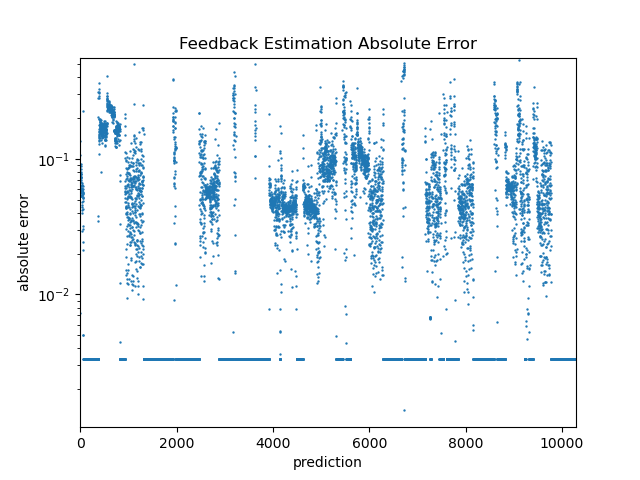
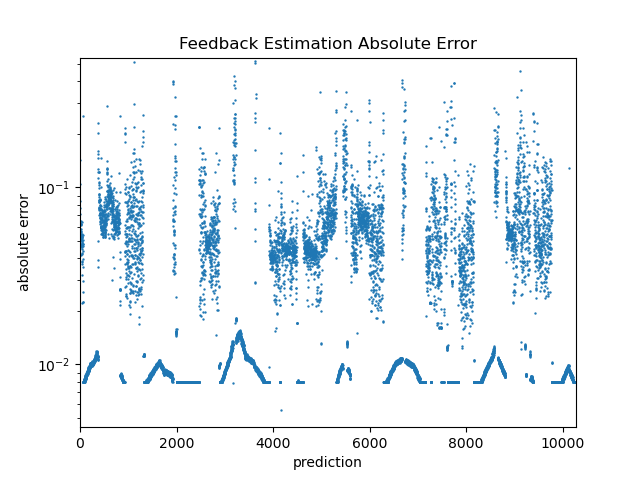
Did some playing around with network size, ultimately found that a center layer of 12 nodes works the best after training for 100 epocs. With that configuration, the already promising data looks even better. Now the network looks much closer to Pioneer era at single estimation (thought notably still

diff --git a/NeuralNetwork/main.py b/NeuralNetwork/main.py
@@ -53,22 +53,17 @@ print(outputTrainData.__len__())
 print(inputTestData.__len__())
 print(outputTestData.__len__())
 print(inputFeedbackTestData.__len__())
-print(outputFeedbackTestData.__len__())
-
-''' Best Configurations:
-    Dense 7, Dense 3, Epochs 200, Batch size 5: loss 0.0077, accuracy 0.987, mean absolute error 0.0299, 750us/step 
-    Dense 8, Dense 3, Epochs 200, Batch size 5: loss 0.0069, accuracy 0.9944, mean absolute error 0.0251, 750us/step 
-'''
+print(outputFeedbackTestData.__len__()) 
 
 
-#MODEL CREATION/TRAINING
+#MODEL CREATION/TRAINING  
 model = Sequential()
-model.add(Dense(13, input_shape=(13,), activation='relu'))
+model.add(Dense(12, input_shape=(13,), activation='relu'))
 model.add(Dense(3, activation='linear'))
 
 model.compile(loss='mean_squared_error', optimizer='adam', metrics=['mean_absolute_error'])
 
-history = model.fit(inputTrainData, outputTrainData, epochs=50, batch_size = 5)
+history = model.fit(inputTrainData, outputTrainData, epochs=100, batch_size = 5)
 
 
 speedResults = list()
